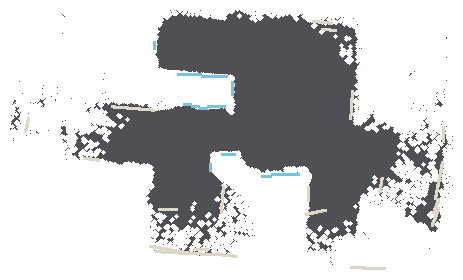
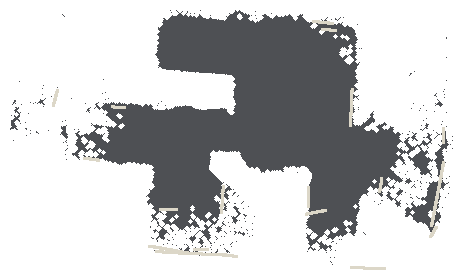
rebuild from full 41.5M points at 1cm resolution
- Source: 2.16M unique points (was 678K at 3cm)
- Model: 21 walls, 42 furniture, 11 ghost walls
- Point cloud lazy-loaded on P key (not on page load)
- Removed stray PDF, cleaned repo
- Updated README with full pipeline docs
- Updated splash text with correct stats

diff --git a/index.html b/index.html
@@ -26,7 +26,7 @@
 
 <!-- Preload assets -->
 <link rel="preload" href="assets/model.glb" as="fetch" crossorigin>
-<link rel="preload" href="assets/pointcloud.bin" as="fetch" crossorigin>
+<!-- pointcloud.bin loaded lazily on P key press -->
 <link rel="preload" href="assets/minimap.png" as="image">
 <style>
 * { margin: 0; padding: 0; box-sizing: border-box; }
@@ -176,7 +176,7 @@ canvas { display: block; }
     <h1>🐕 ROBODOG 3D</h1>
     <div class="sub">
       LiDAR-reconstructed indoor space from a Unitree Go2 robot dog<br>
-      40,000 points • 12,000 triangles • 22 walls • 40 objects
+      2.16M points • 1cm resolution • 21 walls • 42 objects
     </div>
     <div class="start-btn" id="start-btn">ENTER SPACE</div>
     <div class="controls-hint">
@@ -305,7 +305,7 @@ async function main() {
     const [metaRes, trajRes, pcRes, collRes, ghostRes, covRes] = await Promise.all([
       fetch('assets/metadata.json').then(r => r.json()),
       fetch('assets/trajectory.json').then(r => r.json()),
-      fetch('assets/pointcloud.bin').then(r => r.arrayBuffer()),
+      Promise.resolve(null),  // pointcloud loaded lazily via P key
       fetch('assets/walls_collision.json').then(r => r.json()),
       fetch('assets/walls_assumed.json').then(r => r.json()),
       fetch('assets/coverage.json').then(r => r.json()),
@@ -320,7 +320,7 @@ async function main() {
     
     // Build trajectory + point cloud from prefetched data (fast, no network)
     buildTrajectoryFromData(trajRes);
-    buildPointCloudFromBuffer(pcRes);
+    if (pcRes) buildPointCloudFromBuffer(pcRes);  // null on initial load, lazy via P
     
     setProgress(60, 'Loading 3D model…');
     await buildModel();
@@ -606,7 +606,21 @@ function setupEvents() {
 }
 
 /* ─── View Toggle ─── */
-function togglePointCloud() {
+let pcLoaded = false;
+async function togglePointCloud() {
+  if (!pcLoaded) {
+    const el = $('hint-pts');
+    if (el) { el.textContent = 'loading...'; el.className = ''; }
+    try {
+      const buffer = await fetch('assets/pointcloud.bin').then(r => r.arrayBuffer());
+      buildPointCloudFromBuffer(buffer);
+      pcLoaded = true;
+    } catch(e) {
+      console.warn('Failed to load point cloud:', e);
+      if (el) el.textContent = 'error';
+      return;
+    }
+  }
   pointCloudVisible = !pointCloudVisible;
   pcGroup.visible = pointCloudVisible;
   const el = $('hint-pts');

diff --git a/README.md b/README.md
@@ -1,123 +1,73 @@
 # 🐕 Robodog 3D — LiDAR Space Reconstruction
 
-**Interactive Three.js viewer for LiDAR-reconstructed indoor spaces from a Unitree Go2 robot dog.**
+Interactive Three.js viewer for a LiDAR-reconstructed indoor space from a **Unitree Go2** robot dog.
 
 ## 🚀 [Live Demo](https://qwadratic.github.io/robodog-3d/)
 
-![Robodog 3D Screenshot](screenshot.png)
+![Screenshot](screenshot.png)
 
-## 🎯 What is this?
+## What is this?
 
-This project reconstructs a 3D architectural model from raw LiDAR point cloud data collected by a **Unitree Go2** robot dog walking through an indoor space. The web viewer lets you explore the reconstructed environment in first-person mode with real-time rendering.
+A robot dog walked through an indoor space for 4 minutes with a solid-state LiDAR (15 Hz, 41.5M points total). From that single scan, we reconstructed a 3D architectural model and deployed it as an interactive first-person walkthrough.
 
-### Key Features
+### Pipeline
 
-- **84,750 point cloud** with height-based coloring (blue→green→yellow→red)
-- **21,252 triangle mesh** with procedural wall connectivity bridges  
-- **Wood plank floors** with grain variation and ambient occlusion
-- **Intelligent ceiling placement** only in enclosed rooms
-- **Robot trajectory visualization** (205 waypoints from the actual walk)
-- **First-person exploration** with WASD+mouse controls and flashlight
-- **Multiple view modes**: Point Cloud / Model / Both overlaid
+1. **Raw data**: 2GB MCAP file (ROS2 rosbag) → 41.5M deskewed LiDAR points + SLAM odometry
+2. **Downsample**: 1cm voxel grid → 2.16M unique points
+3. **Classify**: surface normals + height → floor / wall / ceiling / object
+4. **Reconstruct**: PCA wall detection, floor tiling, ceiling placement, furniture clustering
+5. **Ghost walls**: point cloud boundary heuristic — where density drops abruptly = wall
+6. **Export**: GLB model (1MB) + minimap + collision data → Three.js viewer
+
+### Features
+
+- **21 detected walls** (2D PCA: must be >0.5m long, <0.25m thick, >3x elongated)
+- **11 ghost walls** (inferred from point cloud density boundaries)
+- **42 furniture objects** (DBSCAN clusters at furniture height)
+- **Wood plank floors** with procedural grain + ambient occlusion
+- **Ceiling only in enclosed rooms** (enclosure detection via flood-fill)
+- **Baseboards** at wall/floor junctions
+- **Minimap** with real-time position + FOV cone
+- **Collision detection** against real walls
+- **Low coverage warning** in barely-scanned areas
 
 ## 🎮 Controls
 
 | Key | Action |
 |-----|--------|
-| **WASD** | Move around |
-| **Mouse** | Look around (click to lock pointer) |
+| **Click** | Lock mouse (enter first-person) |
+| **WASD** | Move |
+| **Mouse** | Look around |
 | **Shift** | Sprint |
-| **1** | Point cloud only |
-| **2** | Model only |
-| **3** | Both overlaid |
-| **ESC** | Exit pointer lock |
+| **P** | Toggle point cloud overlay (loaded on demand) |
+| **G** | Toggle ghost walls (inferred boundaries) |
+| **ESC** | Release mouse |
 
-## 📊 Technical Details
+## Tech
 
-### Data Processing Pipeline
+- Single `index.html` — no build step
+- Three.js from CDN (importmap + modulepreload)
+- PointerLockControls for first-person navigation
+- Assets loaded in parallel with `<link rel="preload">`
+- Point cloud lazy-loaded only on P key press
+- Total payload: ~1.4MB
 
-1. **MCAP Scan Data** → 41.5M raw LiDAR points from Unitree Go2
-2. **Spatial Analysis** → Surface normals, height clustering, wall detection
-3. **Wall Connectivity** → PCA-based clustering + 30cm gap bridging  
-4. **Mesh Generation** → Floor grids, ceiling enclosure detection, furniture boxes
-5. **Web Export** → Downsampled point cloud + GLB model + trajectory JSON
+## Data source
 
-### Model Architecture
+- **Robot**: Unitree Go2 quadruped
+- **LiDAR**: Unitree L1 solid-state, 15 Hz
+- **Recording**: 4 minutes, 39.8m path, ~38m² covered
+- **Format**: MCAP (ROS2 rosbag2, libmcap 1.3.1)
 
-- **137 base wall segments** + **57 connectivity bridges** = **194 total walls**
-- **Wood floor**: 8cm resolution with procedural grain patterns
-- **Smart ceiling**: Only rendered in enclosed room areas (20.7 m²)
-- **40 furniture objects** detected via DBSCAN clustering
-- **Baseboards** at every wall-floor junction
-
-### File Structure
-
-```
-robodog-3d/
-├── index.html              # Three.js viewer (zero build step)
-├── assets/
-│   ├── model.glb           # 3D architectural mesh (1.6 MB)
-│   ├── pointcloud.bin      # Height-colored points (2.0 MB) 
-│   ├── trajectory.json     # Robot waypoints (12.8 KB)
-│   └── metadata.json       # Scene bounds and parameters
-└── README.md
-```
-
-## 🔧 Local Development
+## Local development
 
 ```bash
-# Clone the repository
 git clone https://github.com/qwadratic/robodog-3d.git
 cd robodog-3d
-
-# Serve locally (required for CORS)
-python -m http.server 8000
-# or
-npx serve
-
+python3 -m http.server 8000
 # Open http://localhost:8000
 ```
 
-## 📡 Data Sources
-
-- **Robot**: Unitree Go2 quadruped with integrated LiDAR
-- **Recording**: 4-minute walkaround of indoor office space
-- **Raw data**: 3,701 scans, 41.5M points, 618 m² explored area
-- **Environment**: Floor 0.0m, ceiling 2.15m, mixed room layouts
-
-## 🛠️ Technologies
-
-- **Three.js** — WebGL 3D rendering and controls
-- **Open3D** — Point cloud processing and mesh generation  
-- **Python** — Spatial analysis and wall connectivity algorithms
-- **GitHub Pages** — Zero-config deployment
-
-## 🎨 Coordinate System
-
-The data uses **Z-up coordinates** from the robot's SLAM system, converted to **Y-up** for Three.js:
-
-```javascript
-// MCAP → Three.js conversion
-position.x = mcap.x      // X stays X  
-position.y = mcap.z      // Z becomes Y (up)
-position.z = -mcap.y     // Y becomes -Z (forward)
-```
-
-## 🚧 Known Limitations
-
-- **No camera data**: Walls are procedurally textured (no photorealistic surfaces)
-- **Geometric reconstruction only**: Missing windows, doors, detailed furniture
-- **2.2m ceiling height**: Limited vertical exploration range
-
-## 🔮 Future Improvements
-
-- **Camera fusion**: Add RGB textures from synchronized camera data
-- **Gaussian Splatting**: Neural radiance fields for photorealistic rendering
-- **Room segmentation**: Semantic labeling (kitchen, bedroom, etc.)
-- **Physics**: Collision detection and gravity simulation
-
 ---
 
-**Built with LiDAR data from a robot dog's indoor exploration.** 🐕🦺
-
-*Made by [@qwadratic](https://github.com/qwadratic)*
+*Built by [@qwadratic](https://github.com/qwadratic)*